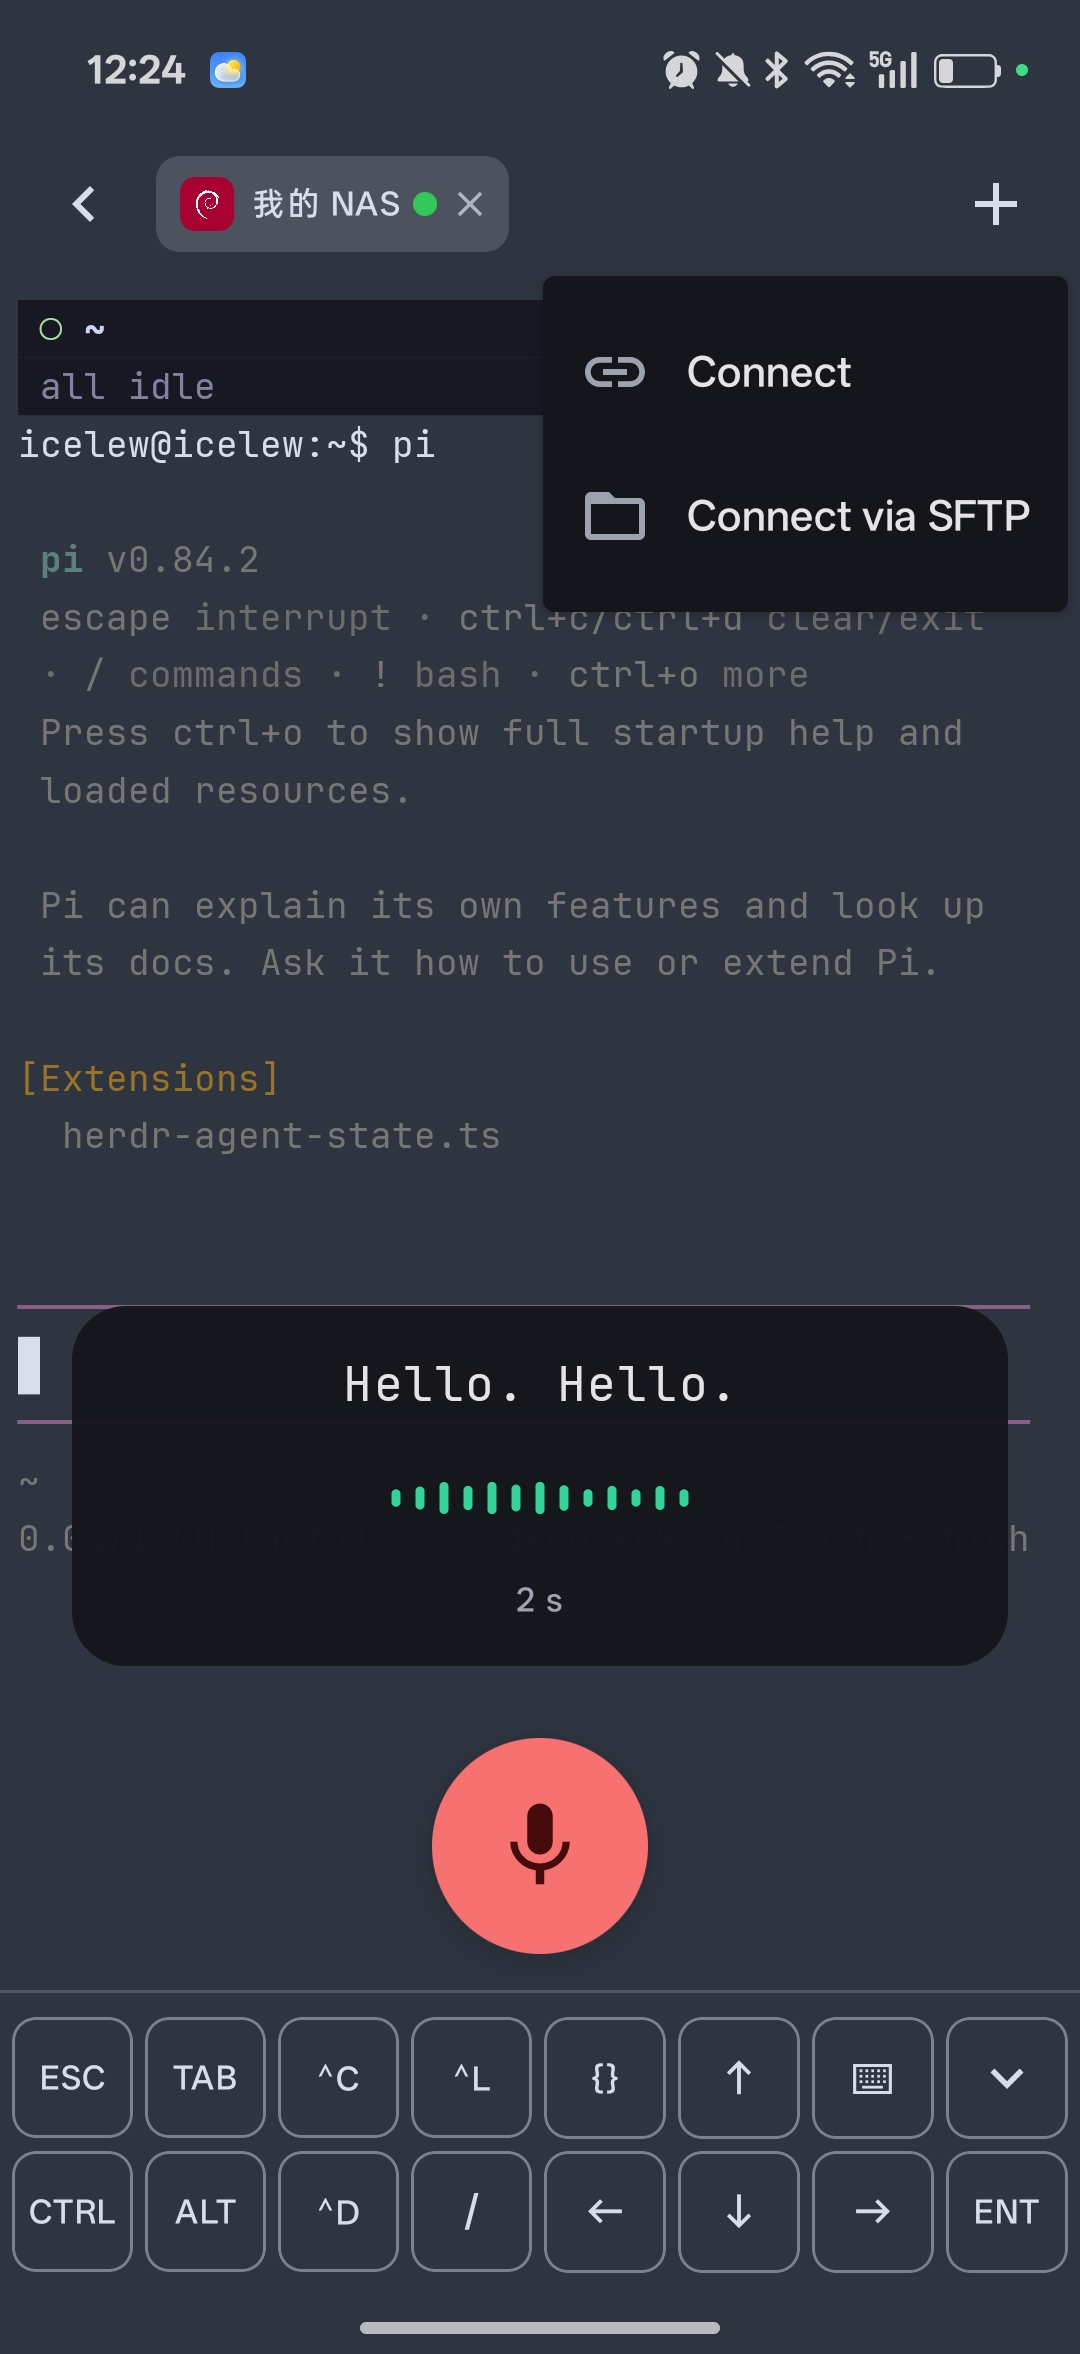
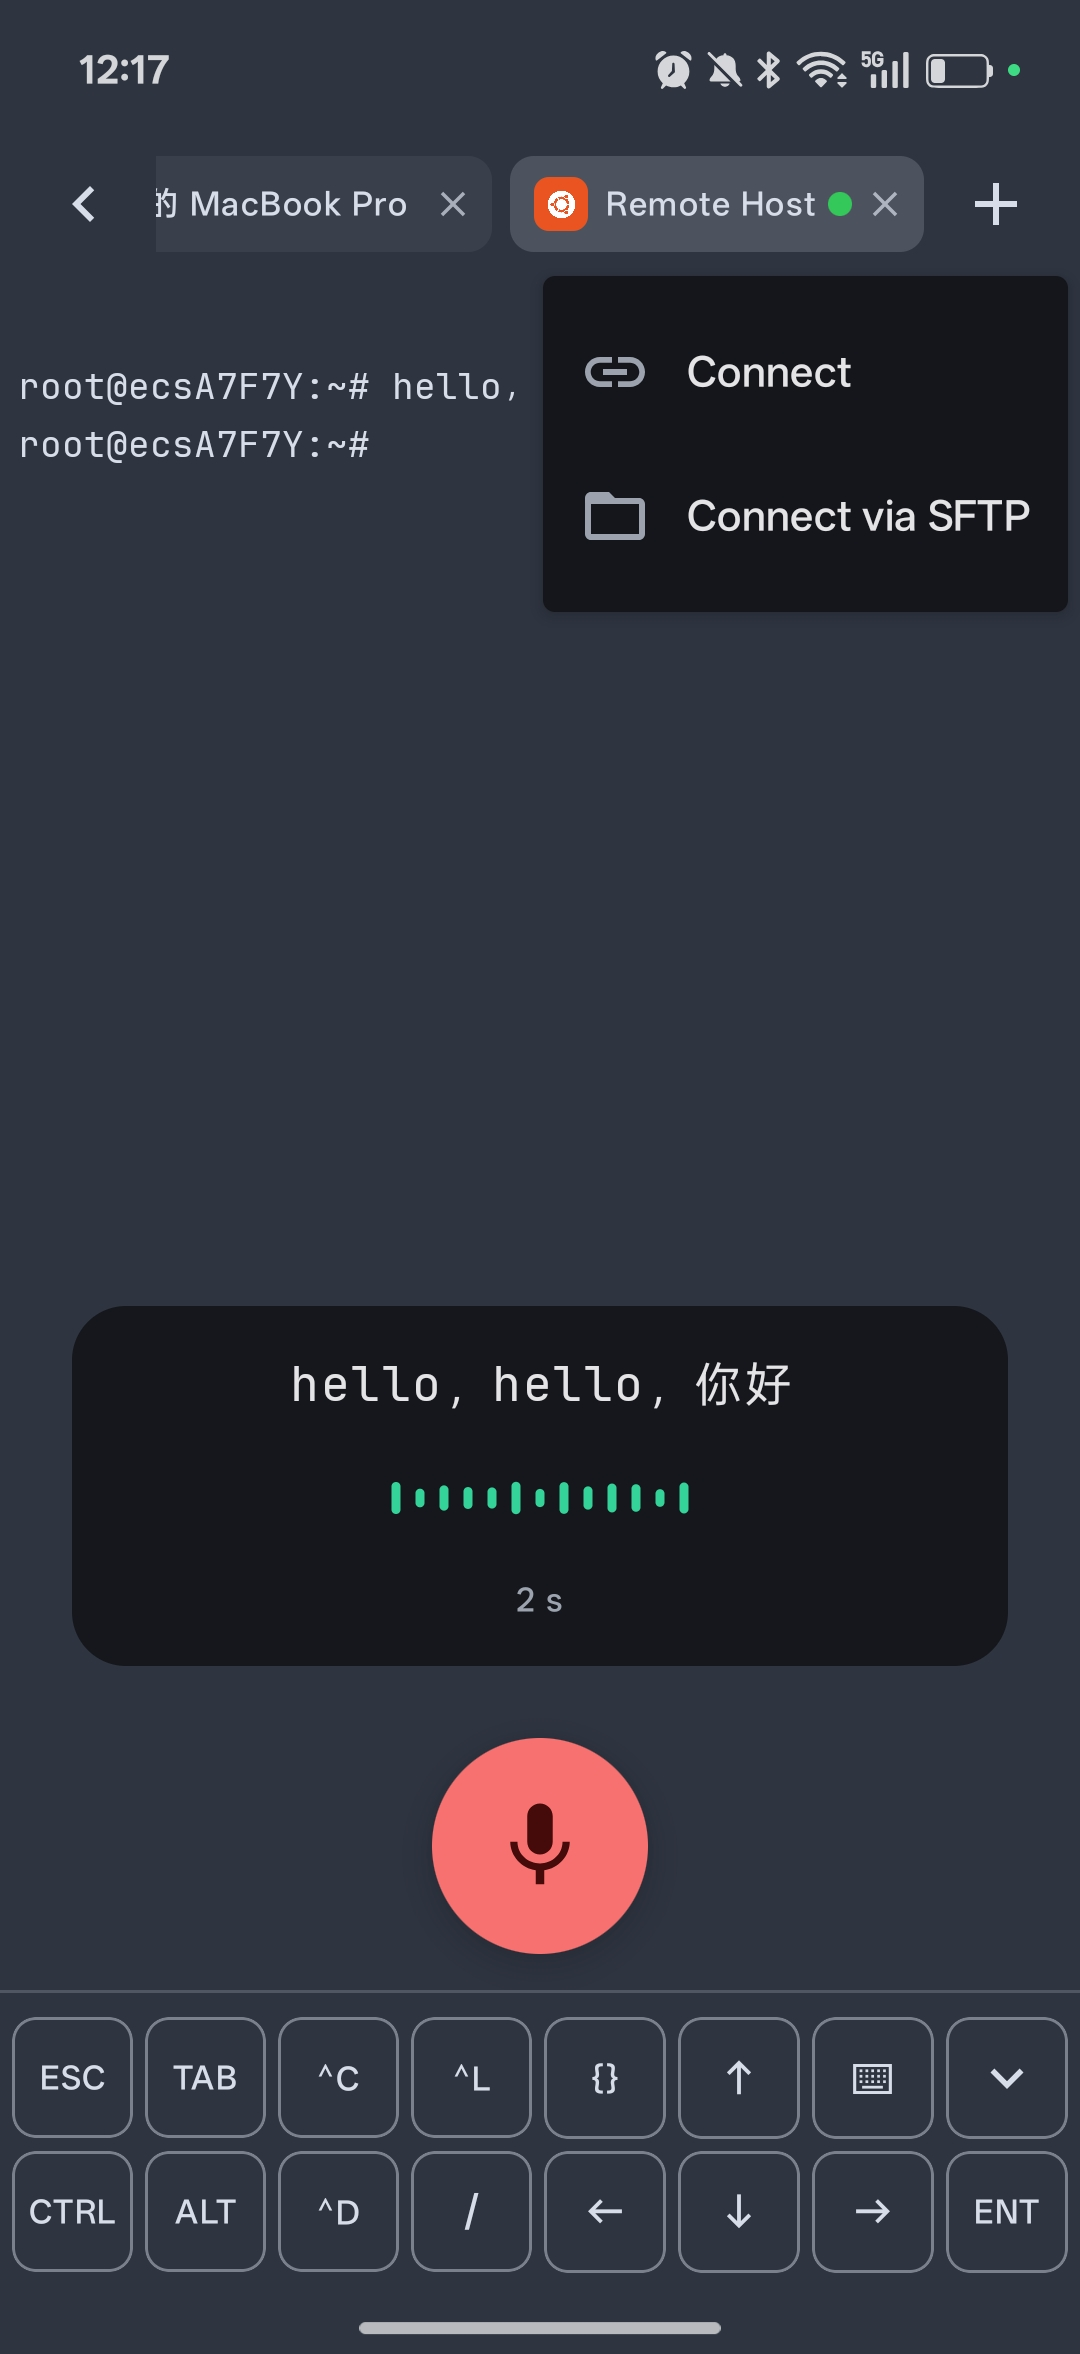
docs: 截图布局调整——第4张 herdr、第5张终端工具菜单（加号展开）
- 第 4 张恢复 herdr TUI 图；第 5 张改用加号展开的终端实拍
  （terminal-menu-zh/en：中文 12-28 加号菜单、英文 tab+连接菜单）
- terminal-ssh 录音态图移出 README 展示（文件保留）

diff --git a/README.md b/README.md
@@ -18,8 +18,8 @@
   <img src="docs/screenshots/theme-en.png" width="230" alt="Terminal theme" />
 </p>
 <p>
-  <img src="docs/screenshots/terminal-ssh-en.png" width="230" alt="SSH terminal" />
   <img src="docs/screenshots/terminal-herdr-en.png" width="230" alt="herdr TUI agent" />
+  <img src="docs/screenshots/terminal-menu-en.png" width="230" alt="Terminal tools menu" />
   <img src="docs/screenshots/sftp-en.png" width="230" alt="SFTP" />
 </p>
 <p>

diff --git a/README.zh-CN.md b/README.zh-CN.md
@@ -18,8 +18,8 @@
   <img src="docs/screenshots/theme-zh.png" width="230" alt="终端主题" />
 </p>
 <p>
-  <img src="docs/screenshots/terminal-ssh-zh.png" width="230" alt="SSH 终端" />
   <img src="docs/screenshots/terminal-herdr-zh.png" width="230" alt="herdr TUI agent" />
+  <img src="docs/screenshots/terminal-menu-zh.png" width="230" alt="终端工具菜单" />
   <img src="docs/screenshots/sftp-zh.png" width="230" alt="SFTP" />
 </p>
 <p>
